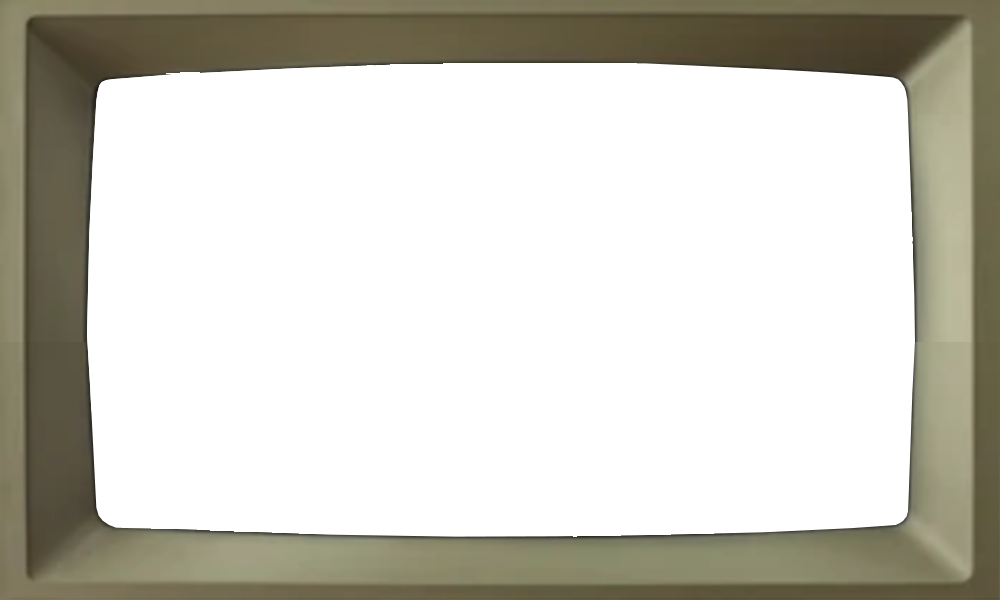
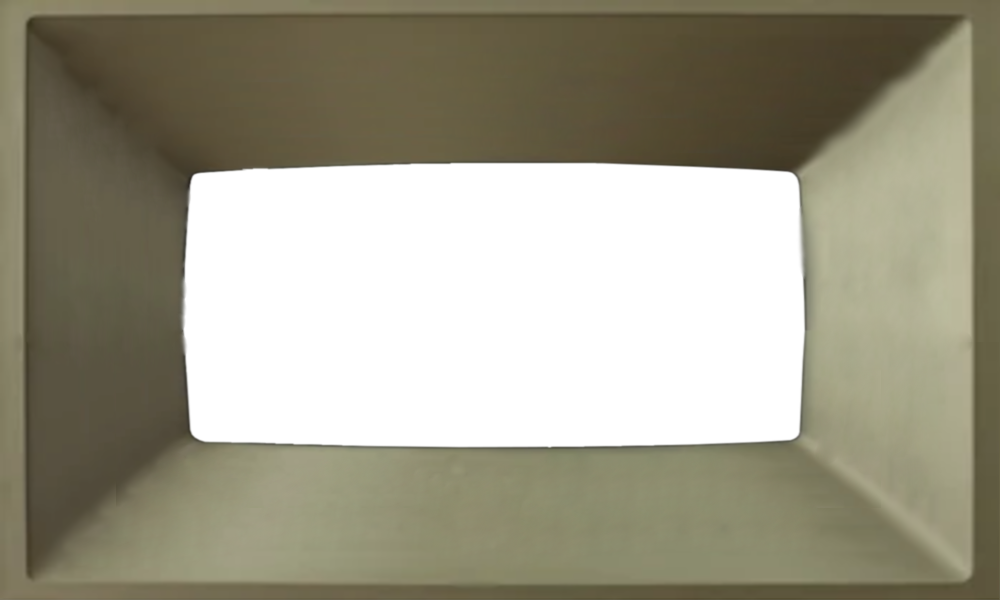
pre alpha v1.0.0 gui

diff --git a/src/main/java/com/vaultec/dbapp/gui/Window.java b/src/main/java/com/vaultec/dbapp/gui/Window.java
@@ -9,6 +9,7 @@ import java.awt.event.*;
 import java.awt.image.BufferedImage;
 import java.io.File;
 import java.io.IOException;
+import java.util.Objects;
 import javax.imageio.ImageIO;
 import javax.swing.*;
 
@@ -51,18 +52,16 @@ public class Window extends JFrame {
     public void initComponents() {
         // JFormDesigner - Component initialization - DO NOT MODIFY  //GEN-BEGIN:initComponents  @formatter:off
         panel1 = new JPanel();
-//        logWindow1 = new LogWindow();
-//        contentPanel1 = new ContentPanel();
-        back = new JButton();
+
 
         contentPanel1.initComponents();
 
         //======== this ========
-        setPreferredSize(new Dimension(1000, 600));
+        setPreferredSize(new Dimension(1060, 710));
         var contentPane = getContentPane();
         contentPane.setLayout(new TableLayout(new double[][] {
-            {50, 200, 643, 59, TableLayout.PREFERRED},
-            {50, 465, 25, TableLayout.PREFERRED}}));
+            {90, 200, 640, 49, 60, TableLayout.PREFERRED},
+            {90, 465, 30, 25, 80, TableLayout.PREFERRED}}));
         ((TableLayout)contentPane.getLayout()).setHGap(5);
 
         //======== panel1 ========
@@ -80,10 +79,13 @@ public class Window extends JFrame {
         contentPane.add(panel1, new TableLayoutConstraints(1, 1, 2, 1, TableLayoutConstraints.FULL, TableLayoutConstraints.FULL));
 
         //---- back ----
-        back.setText("back");
-        back.setPreferredSize(new Dimension(40, 20));
+        back = new JButton();
+        Image scaledButtonIcon = buttonIcon.getScaledInstance(60,24, Image.SCALE_SMOOTH);
+        back.setIcon(new ImageIcon(scaledButtonIcon));
+        back.setSize(new Dimension(70, 30));
+        back.setMaximumSize(new Dimension(70, 30));
         back.addActionListener(e -> back(e));
-        contentPane.add(back, new TableLayoutConstraints(3, 2, 3, 2, TableLayoutConstraints.FULL, TableLayoutConstraints.FULL));
+        contentPane.add(back, new TableLayoutConstraints(3, 3, 3, 3, TableLayoutConstraints.FULL, TableLayoutConstraints.FULL));
         pack();
         setLocationRelativeTo(getOwner());
         // JFormDesigner - End of component initialization  //GEN-END:initComponents  @formatter:on
@@ -91,11 +93,12 @@ public class Window extends JFrame {
         logThread.start();
 
         //----- background -----
-        background= new BackgroundPanel(image);
+        background = new BackgroundPanel(backgroundImage, BackgroundPanel.SCALED);
+        add(background, new TableLayoutConstraints(0, 0, 4, 4, TableLayoutConstraints.FULL, TableLayoutConstraints.FULL));
     }
 
-    final BufferedImage image = ImageIO.read(new File("ramka.png"));
-    //final Image buttonIcon = ImageIO.read(getClass().getResource("back.png"));
+    final BufferedImage backgroundImage = ImageIO.read(new File("ramka.png"));
+    final BufferedImage buttonIcon = ImageIO.read(new File("backButton.png"));
     // JFormDesigner - Variables declaration - DO NOT MODIFY  //GEN-BEGIN:variables  @formatter:off
     private JPanel panel1;
     private BackgroundPanel background;

diff --git a/src/main/java/com/vaultec/dbapp/gui/cards/DwellersCard.java b/src/main/java/com/vaultec/dbapp/gui/cards/DwellersCard.java
@@ -1,8 +1,8 @@
 package com.vaultec.dbapp.gui.cards;
 
-import com.vaultec.dbapp.DefaultCard;
 import com.vaultec.dbapp.gui.utility.AddUserWindow;
 import com.vaultec.dbapp.model.entity.Dweller;
+import com.vaultec.dbapp.model.entity.Job;
 import com.vaultec.dbapp.model.enums.UserType;
 import com.vaultec.dbapp.model.view.DwellerView;
 import com.vaultec.dbapp.validation.UsableBy;
@@ -11,7 +11,6 @@ import info.clearthought.layout.TableLayout;
 import info.clearthought.layout.TableLayoutConstraints;
 import lombok.Getter;
 import lombok.Setter;
-import org.springframework.stereotype.Component;
 
 import javax.swing.*;
 import javax.swing.table.DefaultTableModel;
@@ -118,6 +117,14 @@ public class DwellersCard extends DefaultCard {
         dweller.setFirstname(addWindow.getNameField().getText());
         dweller.setSurname(addWindow.getSurnameField().getText());
         dweller.setStatus("idle");
+
+        Job job = new Job();
+        job.setJob_id(0L);
+        job.setJob_title("unemployed");
+
+        dweller.setJob(job);
+
+        getDwellerService().createDweller(dweller);
 
         fetchData();
         addWindow.dispose();

diff --git a/src/main/java/com/vaultec/dbapp/gui/cards/DefaultCard.java b/src/main/java/com/vaultec/dbapp/gui/cards/DefaultCard.java
@@ -1,5 +1,6 @@
-package com.vaultec.dbapp;
+package com.vaultec.dbapp.gui.cards;
 import com.vaultec.dbapp.model.entity.Dweller;
+import com.vaultec.dbapp.services.DwellerService;
 import com.vaultec.dbapp.services.view.DwellerViewService;
 import jakarta.annotation.Resource;
 import lombok.Getter;
@@ -10,17 +11,16 @@ import org.springframework.stereotype.Component;
 import javax.swing.JPanel;
 
 @Getter
+@Setter(onMethod = @__(@Autowired))
 public abstract class DefaultCard extends JPanel {
 
     Dweller currentDweller;
 
 
     private DwellerViewService dwellerViewService;
+    private DwellerService dwellerService;
 
-    @Autowired
-    public final void setDwellerViewService(DwellerViewService dwellerViewService) {
-        this.dwellerViewService = dwellerViewService;
-    }
+
 
     public void init() {
 

diff --git a/src/main/java/com/vaultec/dbapp/gui/ContentPanel.java b/src/main/java/com/vaultec/dbapp/gui/ContentPanel.java
@@ -11,7 +11,7 @@ import java.util.Map;
 import javax.swing.*;
 import javax.swing.border.*;
 
-import com.vaultec.dbapp.DefaultCard;
+import com.vaultec.dbapp.gui.cards.DefaultCard;
 import com.vaultec.dbapp.SpringBootApp;
 import com.vaultec.dbapp.gui.cards.*;
 import com.vaultec.dbapp.model.entity.Dweller;

diff --git a/src/main/java/com/vaultec/dbapp/gui/cards/MainMenuCard.java b/src/main/java/com/vaultec/dbapp/gui/cards/MainMenuCard.java
@@ -1,6 +1,5 @@
 package com.vaultec.dbapp.gui.cards;
 
-import com.vaultec.dbapp.DefaultCard;
 import com.vaultec.dbapp.model.entity.Dweller;
 import info.clearthought.layout.TableLayout;
 import info.clearthought.layout.TableLayoutConstraints;

diff --git a/src/main/java/com/vaultec/dbapp/gui/cards/ComplaintsCard.java b/src/main/java/com/vaultec/dbapp/gui/cards/ComplaintsCard.java
@@ -1,6 +1,5 @@
 package com.vaultec.dbapp.gui.cards;
 
-import com.vaultec.dbapp.DefaultCard;
 import info.clearthought.layout.TableLayout;
 import info.clearthought.layout.TableLayoutConstraints;
 

diff --git a/src/main/java/com/vaultec/dbapp/gui/cards/HospitalCard.java b/src/main/java/com/vaultec/dbapp/gui/cards/HospitalCard.java
@@ -1,6 +1,5 @@
 package com.vaultec.dbapp.gui.cards;
 
-import com.vaultec.dbapp.DefaultCard;
 import info.clearthought.layout.TableLayout;
 import info.clearthought.layout.TableLayoutConstraints;
 

diff --git a/src/main/java/com/vaultec/dbapp/gui/cards/LoginCard.java b/src/main/java/com/vaultec/dbapp/gui/cards/LoginCard.java
@@ -1,6 +1,5 @@
 package com.vaultec.dbapp.gui.cards;
 
-import com.vaultec.dbapp.DefaultCard;
 import info.clearthought.layout.TableLayout;
 import info.clearthought.layout.TableLayoutConstraints;
 

diff --git a/src/main/java/com/vaultec/dbapp/gui/cards/WarehouseCard.java b/src/main/java/com/vaultec/dbapp/gui/cards/WarehouseCard.java
@@ -1,6 +1,5 @@
 package com.vaultec.dbapp.gui.cards;
 
-import com.vaultec.dbapp.DefaultCard;
 import info.clearthought.layout.TableLayout;
 import info.clearthought.layout.TableLayoutConstraints;
 
